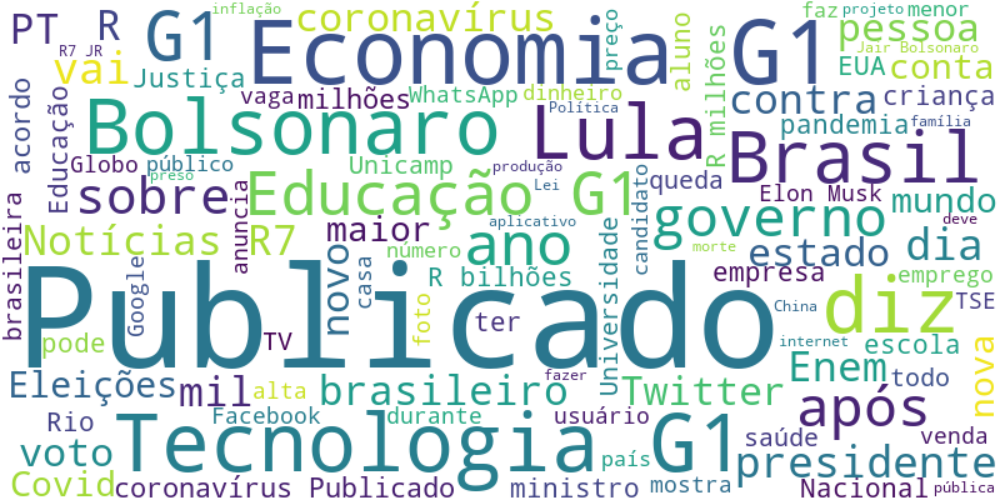
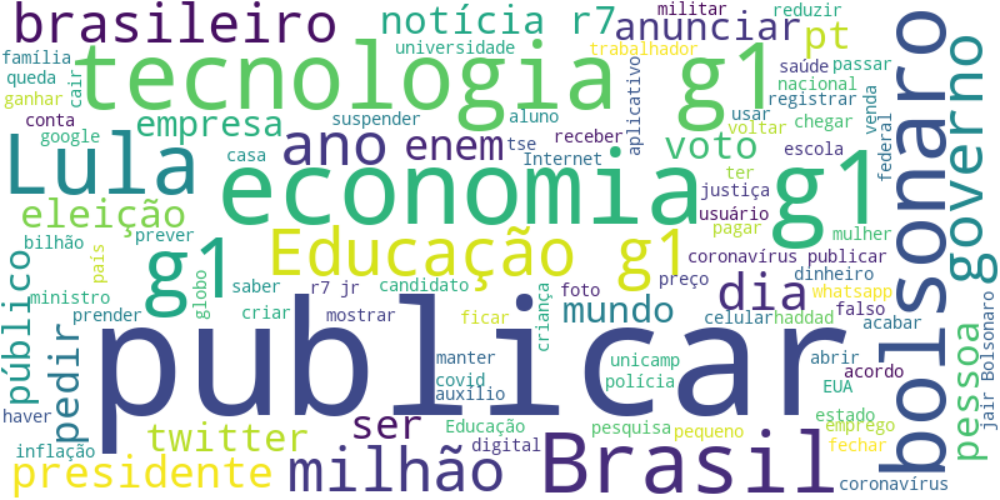
criacao do modelo para que possamos filtar as informacoes que aparecerao na nuvem

diff --git a/mmd-api/api/v1/endpoints/nuvem_palavras.py b/mmd-api/api/v1/endpoints/nuvem_palavras.py
@@ -5,12 +5,19 @@ from typing import List
 from fastapi import APIRouter, status, Depends, HTTPException, Request
 from sqlalchemy.ext.asyncio import AsyncSession
 from sqlalchemy.future import select
-from wordcloud import WordCloud
+import spacy
+'''
 import nltk
 from nltk.corpus import stopwords
+'''
+from wordcloud import WordCloud
 
 from models.usuario_model import UsuarioModel
-from models.perguntas import PerguntasModel
+from models.negocio.perguntas import PerguntasModel
+from models.negocio.tema import TemaModel
+from models.negocio.area import AreaModel
+from models.negocio.categoria import CategoriaModel
+from models.negocio.perguntas_categorias import PerguntasCategoriasModel
 from schemas.nuvem_palavras_schema import NuvemPalavraSchema
 from core.deps import get_session_JEDi, get_current_user
 from api.v1.endpoints.utils.utils import gerar_nuvem_palavras 
@@ -19,35 +26,63 @@ router = APIRouter(redirect_slashes=False)
 
 # GET Regras
 @router.get('', status_code=status.HTTP_200_OK, response_model=NuvemPalavraSchema)
-async def get_palavaras(request: Request, usuario_logado: UsuarioModel = Depends(get_current_user), db: AsyncSession = Depends(get_session_JEDi)):
+async def get_palavras(request: Request, usuario_logado: UsuarioModel = Depends(get_current_user), db: AsyncSession = Depends(get_session_JEDi)):
     try:
         async with db as session:
-            query = select(PerguntasModel.pergunta)
+            query = (select(
+                PerguntasModel.pergunta,
+                PerguntasModel.respcerta,
+                TemaModel.nome.label('tema'),
+                AreaModel.descricao.label('area'),
+                CategoriaModel.descricao.label('categoria')
+            )
+            .join(TemaModel, PerguntasModel.id_tema == TemaModel.id)
+            .join(AreaModel, TemaModel.id_area == AreaModel.id)
+            .join(PerguntasCategoriasModel, PerguntasModel.id == PerguntasCategoriasModel.id_pergunta)
+            .join(CategoriaModel, PerguntasCategoriasModel.id_categoria == CategoriaModel.id))
             result = await session.execute(query)
-            perguntas = result.scalars().all()
-        
-        # Unificando tudo em um único texto
-        texto_completo = " ".join(perguntas)
+            registros = result.all()
 
+        # Unificando tudo em um único texto
+        texto_completo = " ".join([reg.pergunta for reg in registros])
+
+        '''
         # Baixar a lista de stopwords do NLTK
         nltk.download('stopwords')
         stop_words_pt = set(stopwords.words('portuguese'))
-
+        
         # Configurando Stopwords em Português
-        palavras_extras = {"de", "a", "o", "que", "e", "do", "da", "em", "um", "para", "é", "com", "na", "no", "os", "as", "ao", "se"}
+        palavras_extras = {"de", "a", "o", "que", "e", "do", "da", "em", "um", "para", "é", "com", "na", "no", "os", "as", "ao", "se", "sobre", "diz", "faz", "deve", "pode"}
         # Você pode somar as stopwords padrão da biblioteca se desejar
-        stop_words_pt.update(palavras_extras)
+        stop_words_pt.update(palavras_extras)        
+        '''
+        # Carregar o modelo de português do spaCy
+        nlp = spacy.load("pt_core_news_sm")
+
+        # Processar o texto com spaCy
+        doc = nlp(texto_completo.lower())
+
+        # Filtrar e Lematizar
+        # Manter apenas substantivos, adjetivos e verbos, removendo stop words, pontuação e pronomes.
+        palavras_limpas = []
+        for token in doc:
+            if not token.is_stop and not token.is_punct and not token.is_space:
+                # Adicionamos o lemma (raiz da palavra) para agrupar variações
+                palavras_limpas.append(token.lemma_)
+        
+        # Transformar a lista de volta em uma string única
+        texto_final = " ".join(palavras_limpas)
 
         # Criando a nuvem de palavras
         nuvem = WordCloud(
             width=800, 
             height=400,
             background_color='white',
-            stopwords=stop_words_pt,
+            # stopwords=stop_words_pt,
             colormap='viridis', # Esquema de cores
             max_words=100,
             min_font_size=10
-        ).generate(texto_completo)
+        ).generate(texto_final)
 
         await gerar_nuvem_palavras(nuvem)
 
@@ -59,8 +94,14 @@ async def get_palavaras(request: Request, usuario_logado: UsuarioModel = Depends
         }
 
         return {
-            "perguntas": texto_completo,
-            "link_grafico": link
+            "dados": registros,
+            "texto_completo": texto_completo,
+            "link_grafico": link 
         }
+    
     except Exception as e:
         raise HTTPException(status_code=status.HTTP_500_INTERNAL_SERVER_ERROR, detail=str(e))
+'''
+
+
+'''        

diff --git a/mmd-api/models/negocio/perguntas.py b/mmd-api/models/negocio/perguntas.py
@@ -1,0 +1,24 @@
+from sqlalchemy import Column, Integer, String, Text, ForeignKey
+from sqlalchemy.orm import relationship
+from core.configs import settings
+
+
+class PerguntasModel(settings.DBBaseModelJEDi):
+    __tablename__ = 'pergunta2'
+
+    id = Column(Integer, primary_key=True, autoincrement=True)
+    id_tema = Column(Integer, ForeignKey("tema2.id"), nullable=False)
+    pergunta = Column(Text, nullable=False)
+    respcerta = Column(Text, nullable=False)
+    resp2 = Column(Text)
+    resp3 = Column(Text)
+    resp4 = Column(Text)
+    caminhoimagem = Column(String(50))
+    tempo_leitura_adulto = Column(Integer, default=0)
+    tempo_leitura_infantil = Column(Integer, default=0)
+    numero_palavras = Column(Integer)
+    numero_caracteres = Column(Integer)
+
+    # Relacionamentos
+    tema = relationship("TemaModel", back_populates="perguntas")
+    categorias_vinculadas = relationship("PerguntasCategoriasModel", back_populates="pergunta")

diff --git a/mmd-api/models/negocio/perguntas_categorias.py b/mmd-api/models/negocio/perguntas_categorias.py
@@ -1,0 +1,17 @@
+from sqlalchemy import Column, Integer, ForeignKey
+from sqlalchemy.orm import relationship
+from core.configs import settings
+
+
+class PerguntasCategoriasModel(settings.DBBaseModelJEDi):
+    __tablename__ = 'pergunta_categoria2'
+
+    id = Column(Integer, primary_key=True, autoincrement=True)
+    id_tema = Column(Integer, ForeignKey("tema2.id"))
+    id_pergunta = Column(Integer, ForeignKey("pergunta2.id"))
+    id_categoria = Column(Integer, ForeignKey("categoria.id"))
+
+    # Relacionamentos para facilitar o acesso via código
+    pergunta  = relationship("PerguntasModel", back_populates="categorias_vinculadas")
+    categoria = relationship("CategoriaModel", back_populates="perguntas_vinculadas")
+    tema      = relationship("TemaModel")

diff --git a/mmd-api/models/negocio/tema.py b/mmd-api/models/negocio/tema.py
@@ -1,0 +1,18 @@
+from sqlalchemy import Column, Integer, String, Text, ForeignKey
+from sqlalchemy.orm import relationship
+from core.configs import settings
+
+
+class TemaModel(settings.DBBaseModelJEDi):
+    __tablename__ = 'tema2'
+
+    id = Column(Integer, primary_key=True, autoincrement=True)
+    nome = Column(String(100), nullable=False)
+    descricao = Column(Text)
+    id_area = Column(Integer, ForeignKey("area2.id"))
+    visibilidade = Column(String(20))
+    idautor = Column(Integer)
+
+    # Relacionamentos
+    area = relationship("AreaModel", back_populates="temas")
+    perguntas = relationship("PerguntasModel", back_populates="tema")

diff --git a/mmd-api/schemas/nuvem_palavras_schema.py b/mmd-api/schemas/nuvem_palavras_schema.py
@@ -21,7 +21,15 @@ class PerguntaBaseSchema(BaseModel):
     # Necessário para o Pydantic ler objetos do SQLAlchemy
     model_config = ConfigDict(from_attributes=True)
 
+class NuvemItemSchema(BaseModel):
+    pergunta: str
+    respcerta: str
+    tema: str
+    area: str
+    categoria: str
+
 class NuvemPalavraSchema(BaseModel):
     # Define que a resposta será uma lista de perguntas
-    perguntas: str
+    dados: List[NuvemItemSchema]
+    texto_completo: str
     link_grafico: Dict[str, str]

diff --git a/mmd-api/models/negocio/categoria.py b/mmd-api/models/negocio/categoria.py
@@ -1,0 +1,13 @@
+from sqlalchemy import Column, Integer, String
+from sqlalchemy.orm import relationship
+from core.configs import settings
+
+
+class CategoriaModel(settings.DBBaseModelJEDi):
+    __tablename__ = 'categoria'
+
+    id = Column(Integer, primary_key=True, autoincrement=True)
+    descricao = Column(String(255), nullable=False)
+
+    # Relacionamento com a tabela associativa
+    perguntas_vinculadas = relationship("PerguntasCategoriasModel", back_populates="categoria")

diff --git a/mmd-api/models/negocio/area.py b/mmd-api/models/negocio/area.py
@@ -1,0 +1,15 @@
+from sqlalchemy import Column, Integer, String
+from sqlalchemy.orm import relationship
+from core.configs import settings
+
+
+class AreaModel(settings.DBBaseModelJEDi):
+    __tablename__ = 'area2'
+
+    id = Column(Integer, primary_key=True, autoincrement=True)
+    descricao = Column(String(50))
+
+    # Relacionamentos
+    temas = relationship("TemaModel", back_populates="area")
+
+
